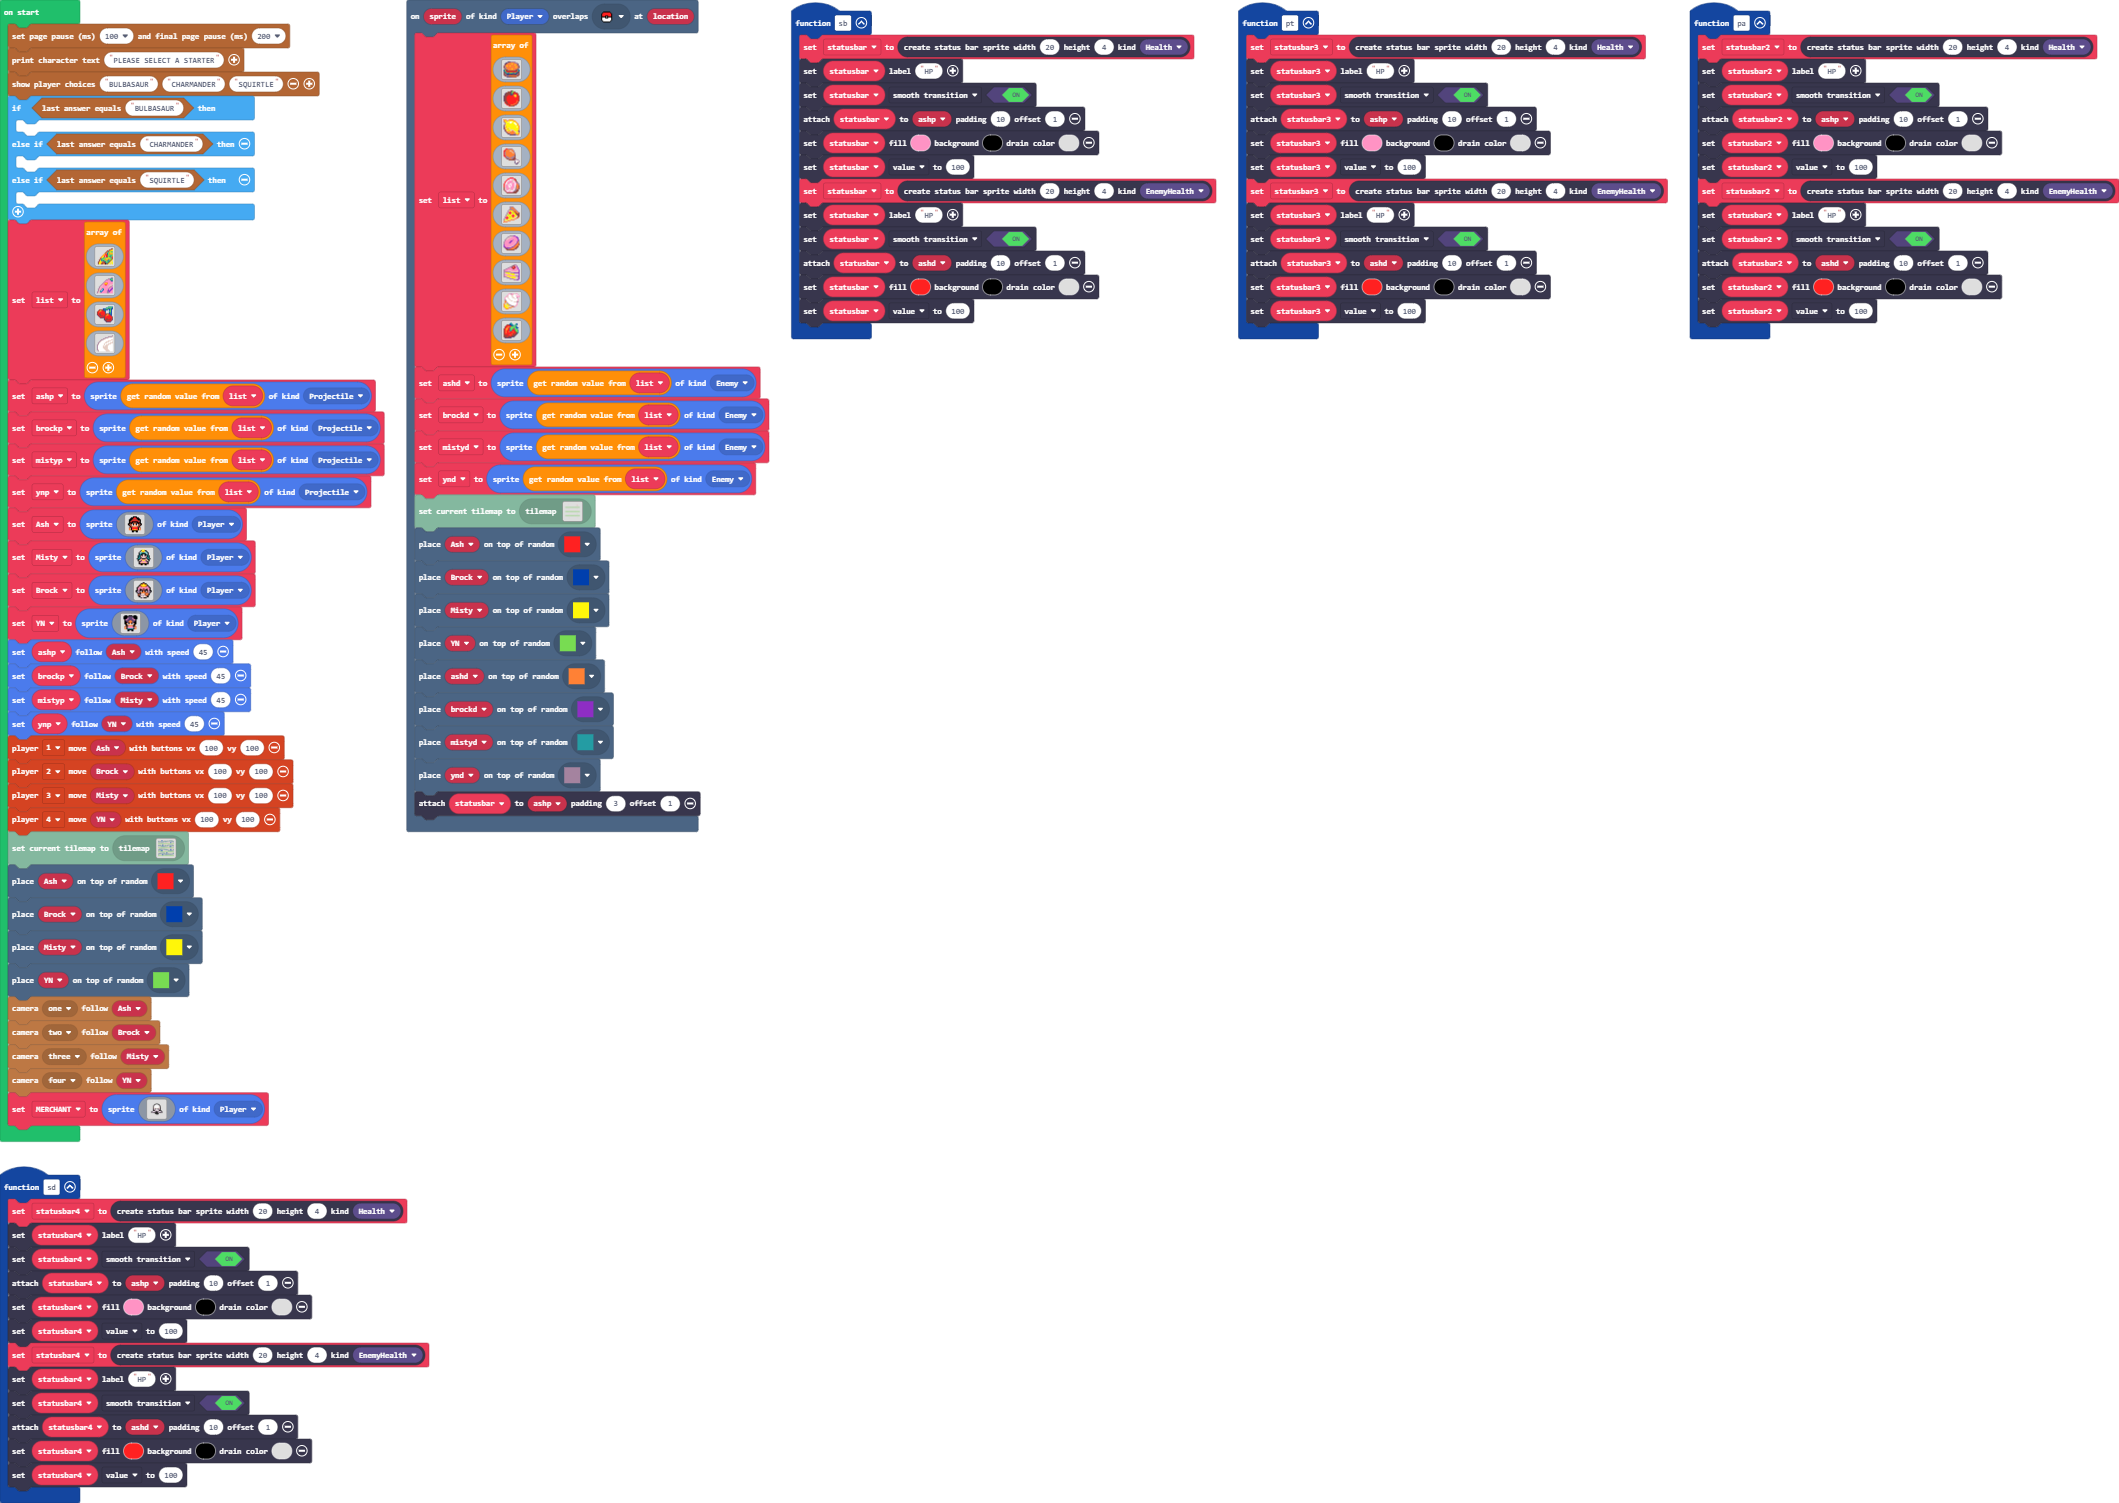
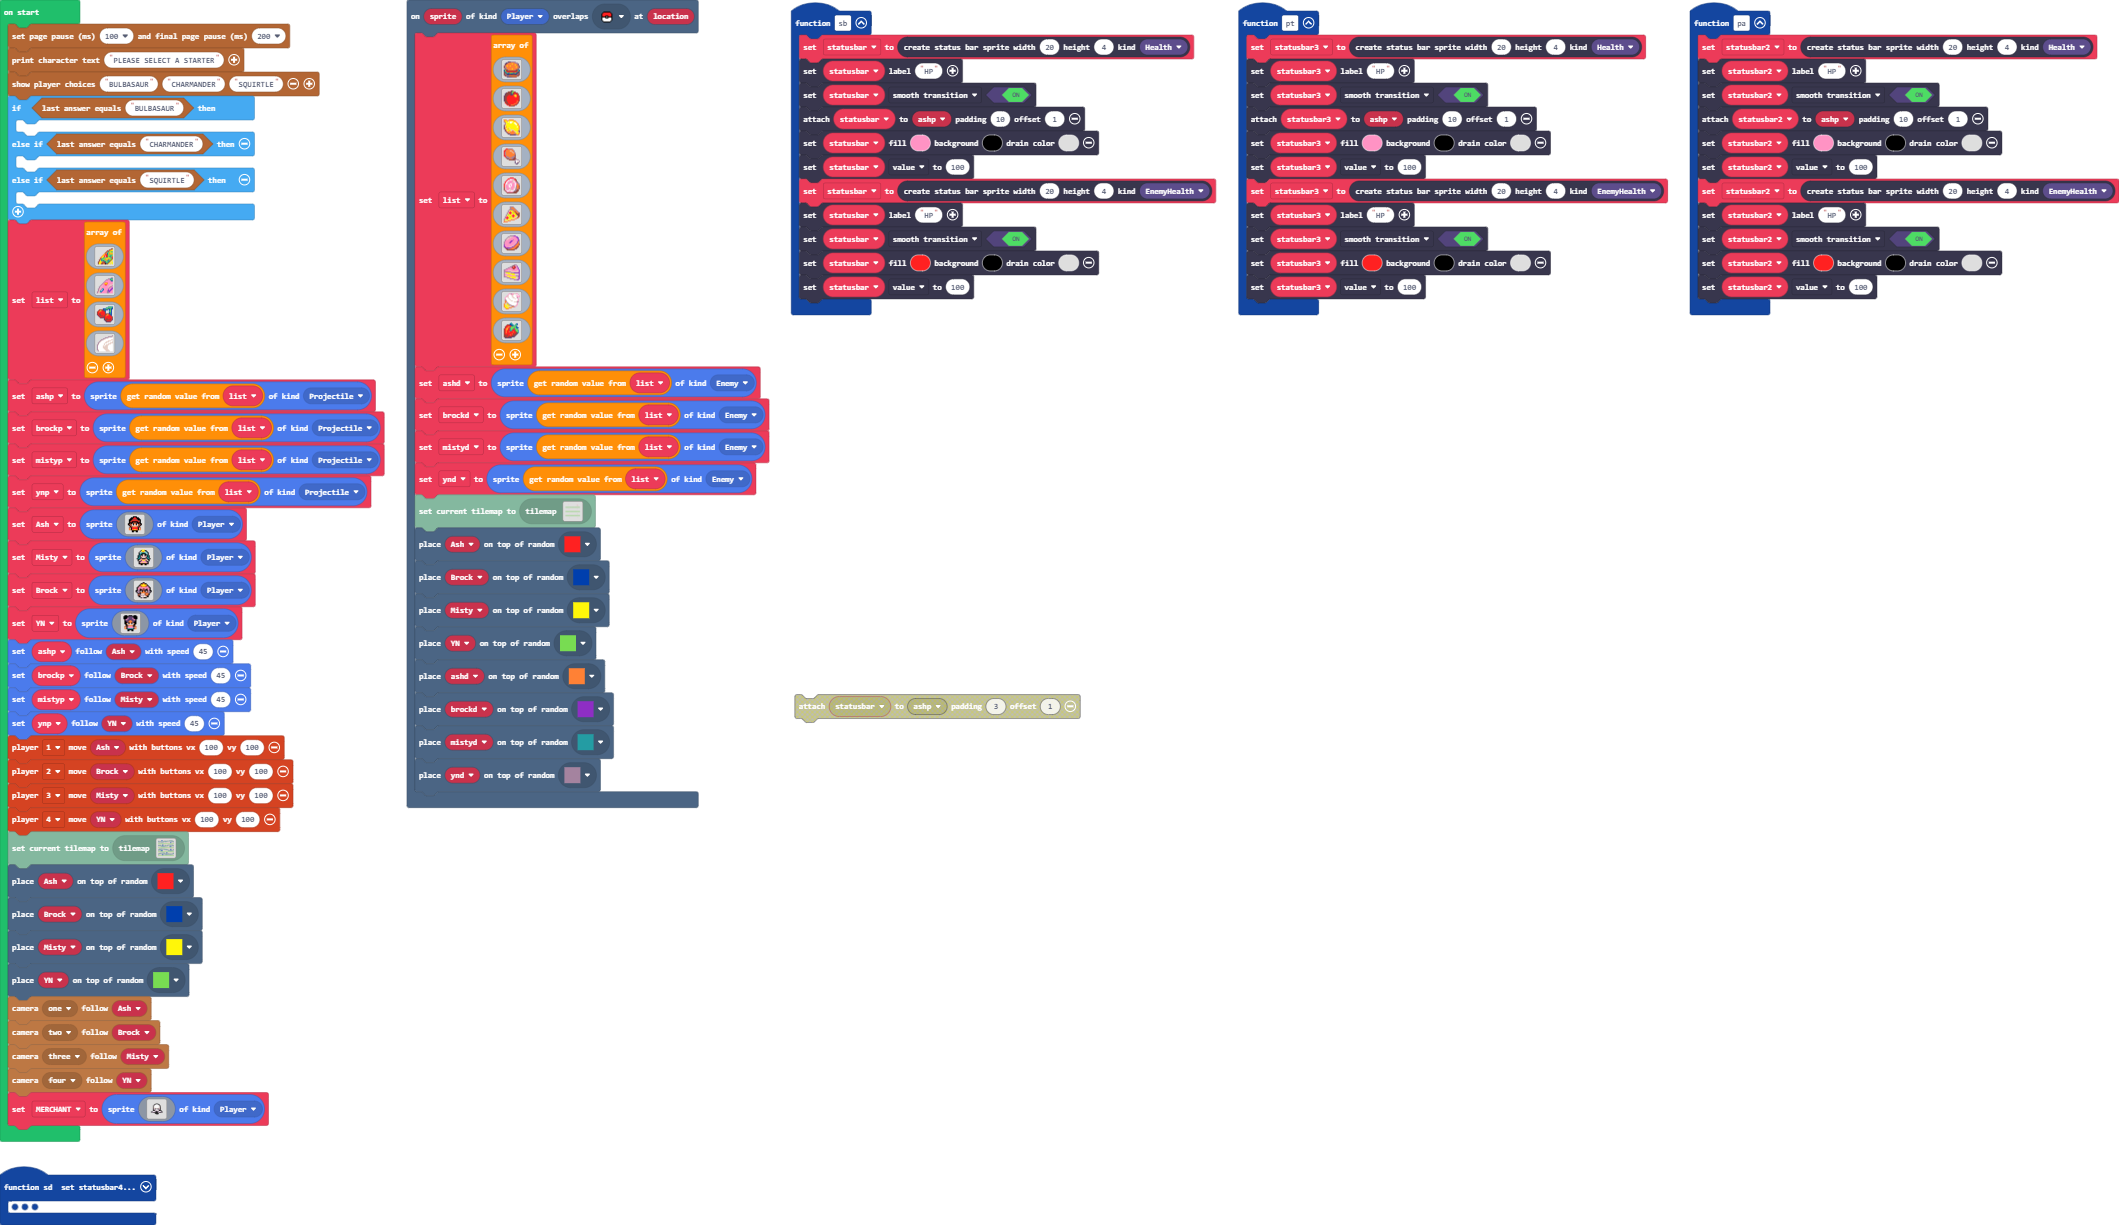
Update main.blocks, main.ts

Changed region(s): [[0.0, 0.0, 1.0, 1.0], [0.3738, 0.5584, 0.5295, 0.5894]]

diff --git a/main.ts b/main.ts
@@ -8,7 +8,6 @@ function sb () {
     statusbar = statusbars.create(20, 4, StatusBarKind.EnemyHealth)
     statusbar.setLabel("HP")
     statusbar.setStatusBarFlag(StatusBarFlag.SmoothTransition, true)
-    statusbar.attachToSprite(ashd, 10, 1)
     statusbar.setColor(2, 15, 0)
     statusbar.value = 100
 }
@@ -22,7 +21,6 @@ function sd () {
     statusbar4 = statusbars.create(20, 4, StatusBarKind.EnemyHealth)
     statusbar4.setLabel("HP")
     statusbar4.setStatusBarFlag(StatusBarFlag.SmoothTransition, true)
-    statusbar4.attachToSprite(ashd, 10, 1)
     statusbar4.setColor(2, 15, 0)
     statusbar4.value = 100
 }
@@ -222,7 +220,6 @@ scene.onOverlapTile(SpriteKind.Player, assets.tile`myTile5`, function (sprite, l
     tiles.placeOnRandomTile(brockd, assets.tile`myTile7`)
     tiles.placeOnRandomTile(mistyd, assets.tile`myTile8`)
     tiles.placeOnRandomTile(ynd, assets.tile`myTile9`)
-    statusbar.attachToSprite(ashp, 3, 1)
 })
 function pt () {
     statusbar3 = statusbars.create(20, 4, StatusBarKind.Health)
@@ -234,7 +231,6 @@ function pt () {
     statusbar3 = statusbars.create(20, 4, StatusBarKind.EnemyHealth)
     statusbar3.setLabel("HP")
     statusbar3.setStatusBarFlag(StatusBarFlag.SmoothTransition, true)
-    statusbar3.attachToSprite(ashd, 10, 1)
     statusbar3.setColor(2, 15, 0)
     statusbar3.value = 100
 }
@@ -248,7 +244,6 @@ function pa () {
     statusbar2 = statusbars.create(20, 4, StatusBarKind.EnemyHealth)
     statusbar2.setLabel("HP")
     statusbar2.setStatusBarFlag(StatusBarFlag.SmoothTransition, true)
-    statusbar2.attachToSprite(ashd, 10, 1)
     statusbar2.setColor(2, 15, 0)
     statusbar2.value = 100
 }
@@ -257,8 +252,8 @@ let statusbar3: StatusBarSprite = null
 let ynd: Sprite = null
 let mistyd: Sprite = null
 let brockd: Sprite = null
-let statusbar4: StatusBarSprite = null
 let ashd: Sprite = null
+let statusbar4: StatusBarSprite = null
 let statusbar: StatusBarSprite = null
 let YN: Sprite = null
 let Brock: Sprite = null
